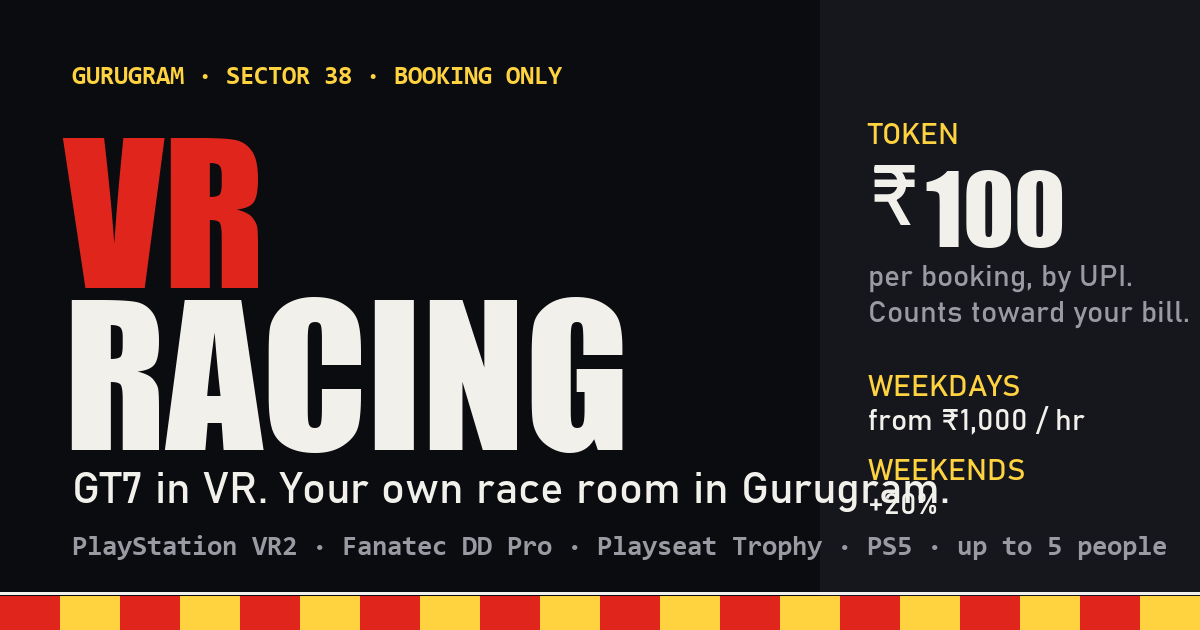
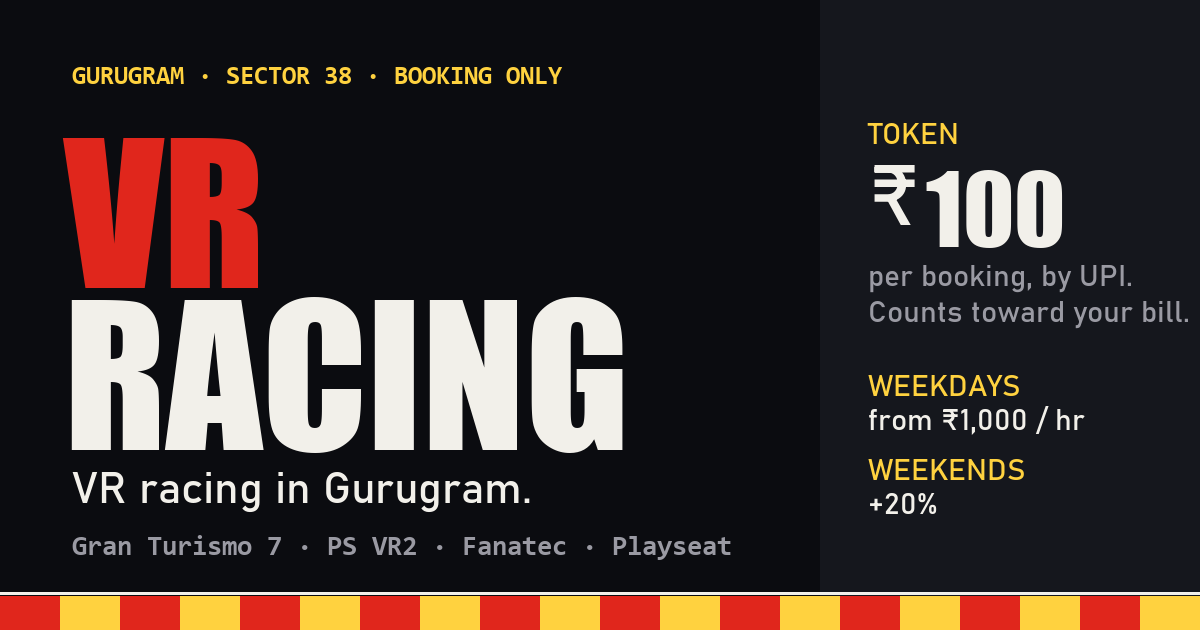
Headline: VR Racing in Gurugram; Gran Turismo 7 as a small line at the foot of the hero
The hero reads "VR Racing / in Gurugram." over the cockpit frame, with "On Gran Turismo 7 ·
PlayStation 5 · Fanatec direct drive · Playseat Trophy" as a small line under the buttons.
Titles and the link-preview card say the same; the card's lines are re-fitted to its left panel.

diff --git a/index.html b/index.html
@@ -3,18 +3,18 @@
 <head>
 <meta charset="utf-8">
 <meta name="viewport" content="width=device-width,initial-scale=1">
-<title>VR Racing — Gran Turismo 7 in VR, in your own room in Gurugram</title>
+<title>VR Racing in Gurugram — your own VR race room</title>
 <meta name="description" content="Gran Turismo 7 in VR on PlayStation VR2, on a Fanatec direct-drive wheel and a Playseat Trophy cockpit, in a private room in Gurugram, Sector 38. Screen sessions on a 65-inch OLED, and PS5 nights: FIFA, WWE, Rocket League, Mortal Kombat and the PlayStation Plus catalogue on request. Up to five people per slot. Booking online only.">
-<meta property="og:title" content="VR Racing — Gran Turismo 7 in VR, in your own room in Gurugram">
+<meta property="og:title" content="VR Racing in Gurugram — your own VR race room">
 <meta property="og:description" content="Gran Turismo 7 in VR on PlayStation VR2, on a Fanatec direct-drive wheel and a Playseat Trophy cockpit. Your own room in Gurugram, up to five people, evenings and weekends. Book online.">
 <meta property="og:type" content="website">
 <meta property="og:url" content="https://vrracing.mecomm.in/">
 <meta property="og:image" content="https://vrracing.mecomm.in/og.png">
 <meta property="og:image:width" content="1200">
 <meta property="og:image:height" content="630">
-<meta property="og:image:alt" content="VR Racing — Gran Turismo 7 in VR. Your own race room in Gurugram. ₹100 UPI token per booking, weekdays from ₹1,000 an hour, weekends +20%.">
+<meta property="og:image:alt" content="VR Racing in Gurugram — your own VR race room. ₹100 UPI token per booking, weekdays from ₹1,000 an hour, weekends +20%.">
 <meta name="twitter:card" content="summary_large_image">
-<meta name="twitter:title" content="VR Racing — Gran Turismo 7 in VR, in your own room in Gurugram">
+<meta name="twitter:title" content="VR Racing in Gurugram — your own VR race room">
 <meta name="twitter:description" content="Gran Turismo 7 in VR on PlayStation VR2, on a Fanatec direct-drive wheel and a Playseat Trophy cockpit. Your own room in Gurugram, up to five people, evenings and weekends. Book online.">
 <meta name="twitter:image" content="https://vrracing.mecomm.in/og.png">
 <meta name="theme-color" content="#0b0c10">
@@ -108,10 +108,12 @@
     linear-gradient(0deg,rgba(11,12,16,.95) 0%,rgba(11,12,16,.35) 30%,transparent 60%)}
   .hero .wrap{padding-top:6rem;padding-bottom:3rem;display:grid;grid-template-columns:minmax(0,38rem) 1fr;gap:2rem;align-items:end}
   @media (max-width:860px){.hero .wrap{grid-template-columns:1fr;padding-top:4.5rem}.hero-bg img{object-position:70% 50%}}
-  .hero h1{font-size:clamp(3.2rem,1.9rem + 4.4vw,5.8rem);margin:.4rem 0 .6rem;overflow-wrap:anywhere;text-shadow:0 2px 24px rgba(0,0,0,.6)}
+  .hero h1{font-size:clamp(3.6rem,2.2rem + 4.8vw,6.4rem);margin:.4rem 0 .6rem;overflow-wrap:anywhere;text-shadow:0 2px 24px rgba(0,0,0,.6)}
   .hero h1 span{display:block;color:var(--seat)}
   .hero p.lede{font-size:clamp(1.05rem,1rem + .4vw,1.22rem);max-width:34rem;color:var(--chalk);margin:0 0 1.6rem;text-shadow:0 1px 12px rgba(0,0,0,.7)}
   .hero .cta{display:flex;gap:.8rem;flex-wrap:wrap;align-items:center}
+  .hero .on{font-family:var(--mono);font-size:.78rem;letter-spacing:.06em;color:var(--tarmac);margin:1.4rem 0 0;text-shadow:0 1px 8px rgba(0,0,0,.8)}
+  .hero .on b{color:var(--chalk);font-weight:600}
   .flag{display:inline-flex;align-items:center;gap:.5rem;font-family:var(--mono);font-size:.8rem;letter-spacing:.1em;text-transform:uppercase;color:var(--pit);background:var(--kerb);padding:.35rem .7rem;border-radius:4px}
   .flag i{width:.55rem;height:.55rem;background:var(--pit);display:inline-block}
   .readout{justify-self:end;text-align:right;padding-bottom:.4rem}
@@ -298,12 +300,13 @@
   <div class="wrap">
     <div>
       <span class="flag"><i></i> PlayStation VR2 · from 25 September</span>
-      <h1 class="display">Gran Turismo 7<br>in VR.<span>In Gurugram.</span></h1>
+      <h1 class="display">VR Racing<span>in Gurugram.</span></h1>
       <p class="lede">The sim lounges in NCR put you in front of a screen. This room puts you inside the car: Gran Turismo 7 on PlayStation VR2, on a direct-drive Fanatec wheel and a Playseat Trophy cockpit. Until the headset lands, the same rig on a 65-inch OLED — and PS5 nights on the big screen. Your own room, up to five of you. Booking online only.</p>
       <div class="cta">
         <a class="btn primary" href="#book">Book a VR slot</a>
         <a class="btn ghost" href="#vr">Why VR</a>
       </div>
+      <p class="on">On <b>Gran Turismo 7</b> · PlayStation 5 · Fanatec direct drive · Playseat Trophy</p>
     </div>
     <div class="readout" aria-label="Session board">
       <span class="eyebrow">Sector 38 · VR lap</span>

diff --git a/tools/og_card.py b/tools/og_card.py
@@ -43,10 +43,10 @@ d.text((64, 96), "VR", font=wordmark, fill=SEAT)
 d.text((64, 258), "RACING", font=wordmark, fill=CHALK)
 
 # sub-line
-d.text((72, 468), "GT7 in VR. Your own race room in Gurugram.", font=sub, fill=CHALK)
+d.text((72, 468), "VR racing in Gurugram.", font=sub, fill=CHALK)
 
 # mono strip with the rig
-d.text((72, 534), "PlayStation VR2 · Fanatec DD Pro · Playseat Trophy · PS5 · up to 5 people", font=mono, fill=MUTED)
+d.text((72, 534), "Gran Turismo 7 · PS VR2 · Fanatec · Playseat", font=mono, fill=MUTED)
 
 # right panel: a big "₹100" token block reads as the one rule people need before they click
 tok_big = ImageFont.truetype(FONTS + "impact.ttf", 96)
